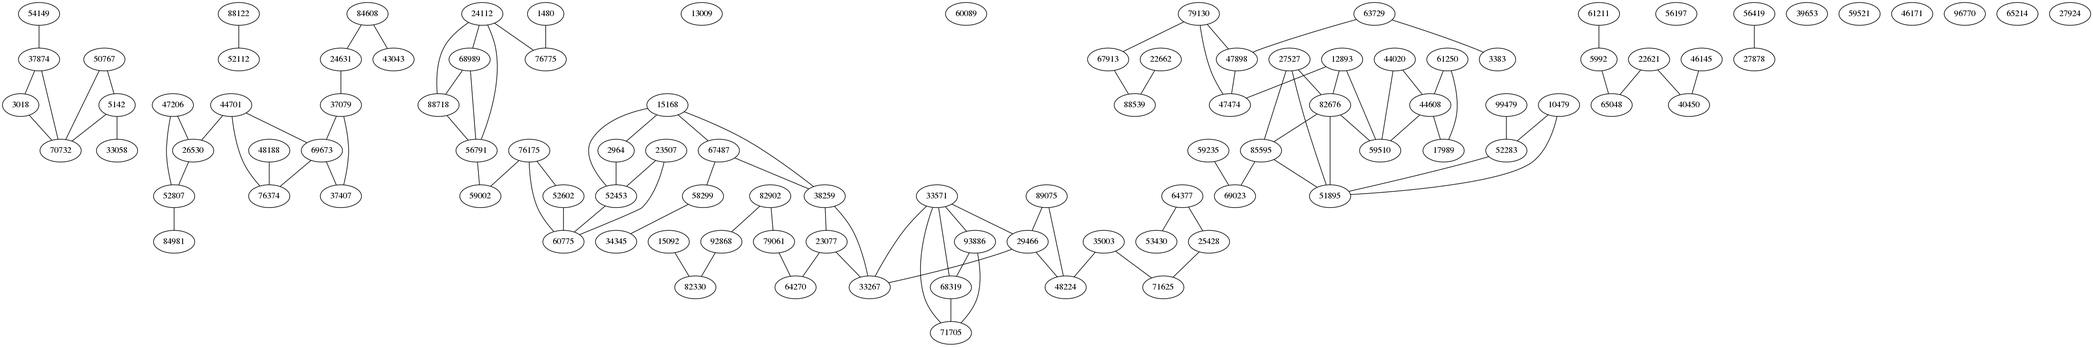
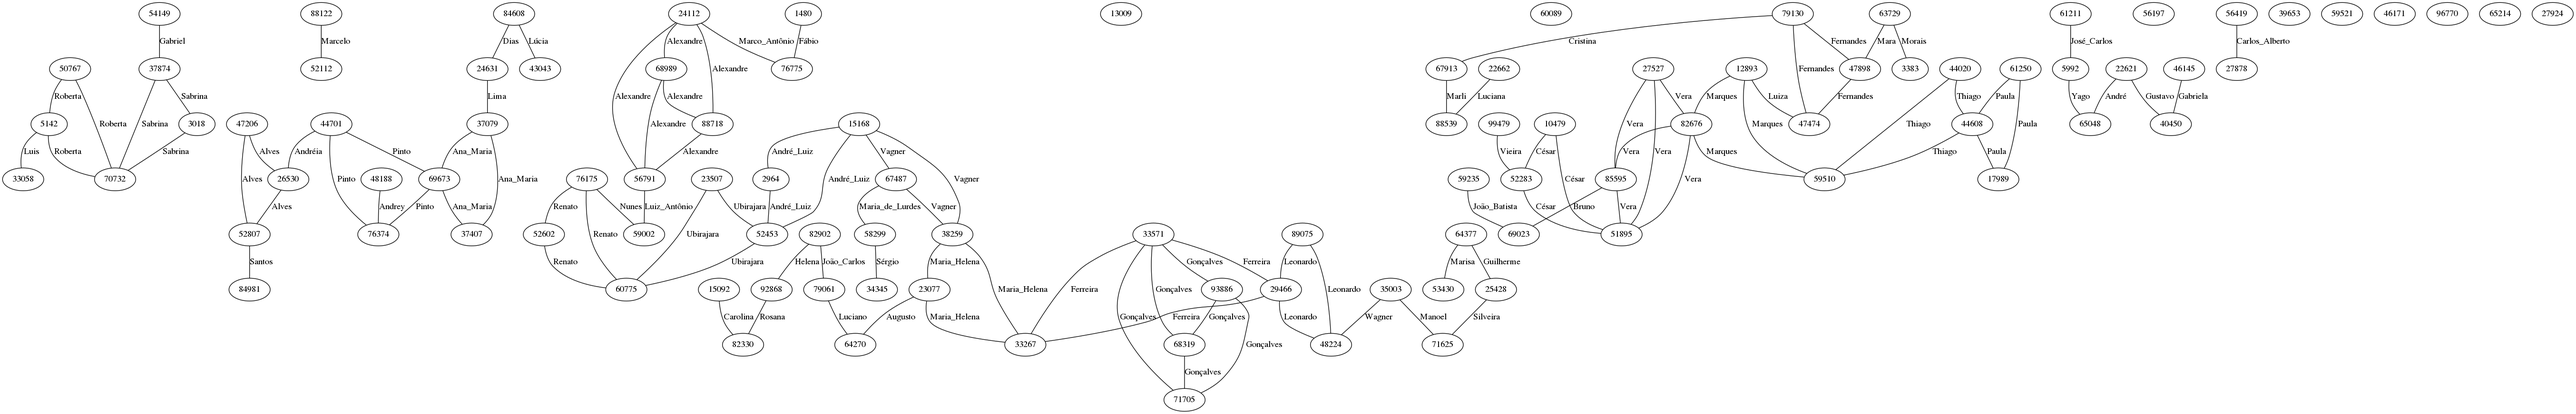
GRAPH WEIGHTED - add weight at the edges

diff --git a/src/app.rb b/src/app.rb
@@ -27,11 +27,21 @@ for i in 0...accounts.size
         nodej = data[j].split(" ")[0]
         name_j1 = data[j].split(" ")[1]
         name_j2 = data[j].split(" ")[2]
-        
-        if(name_i1 == name_j1 || name_i1 == name_j2 || name_i2 == name_j1 || name_i2 == name_j2)
+ 
+        if(name_i1 == name_j1)
             puts "Adding edges to nodes:  #{nodei} -- #{nodej}"
-            graph.add_edges( nodei.to_s, nodej.to_s )
+            graph.add_edges( nodei.to_s, nodej.to_s, :label => "#{name_i1}" )
+        elsif(name_i1 == name_j2)
+            puts "Adding edges to nodes:  #{nodei} -- #{nodej}"
+            graph.add_edges( nodei.to_s, nodej.to_s, :label => "#{name_i1}" )
+        elsif(name_i2 == name_j1)
+            puts "Adding edges to nodes:  #{nodei} -- #{nodej}"
+            graph.add_edges( nodei.to_s, nodej.to_s, :label => "#{name_i2}" )
+        elsif(name_i2 == name_j2)
+            puts "Adding edges to nodes:  #{nodei} -- #{nodej}"
+            graph.add_edges( nodei.to_s, nodej.to_s, :label => "#{name_i2}" )
         end
+
     end
 end
 
